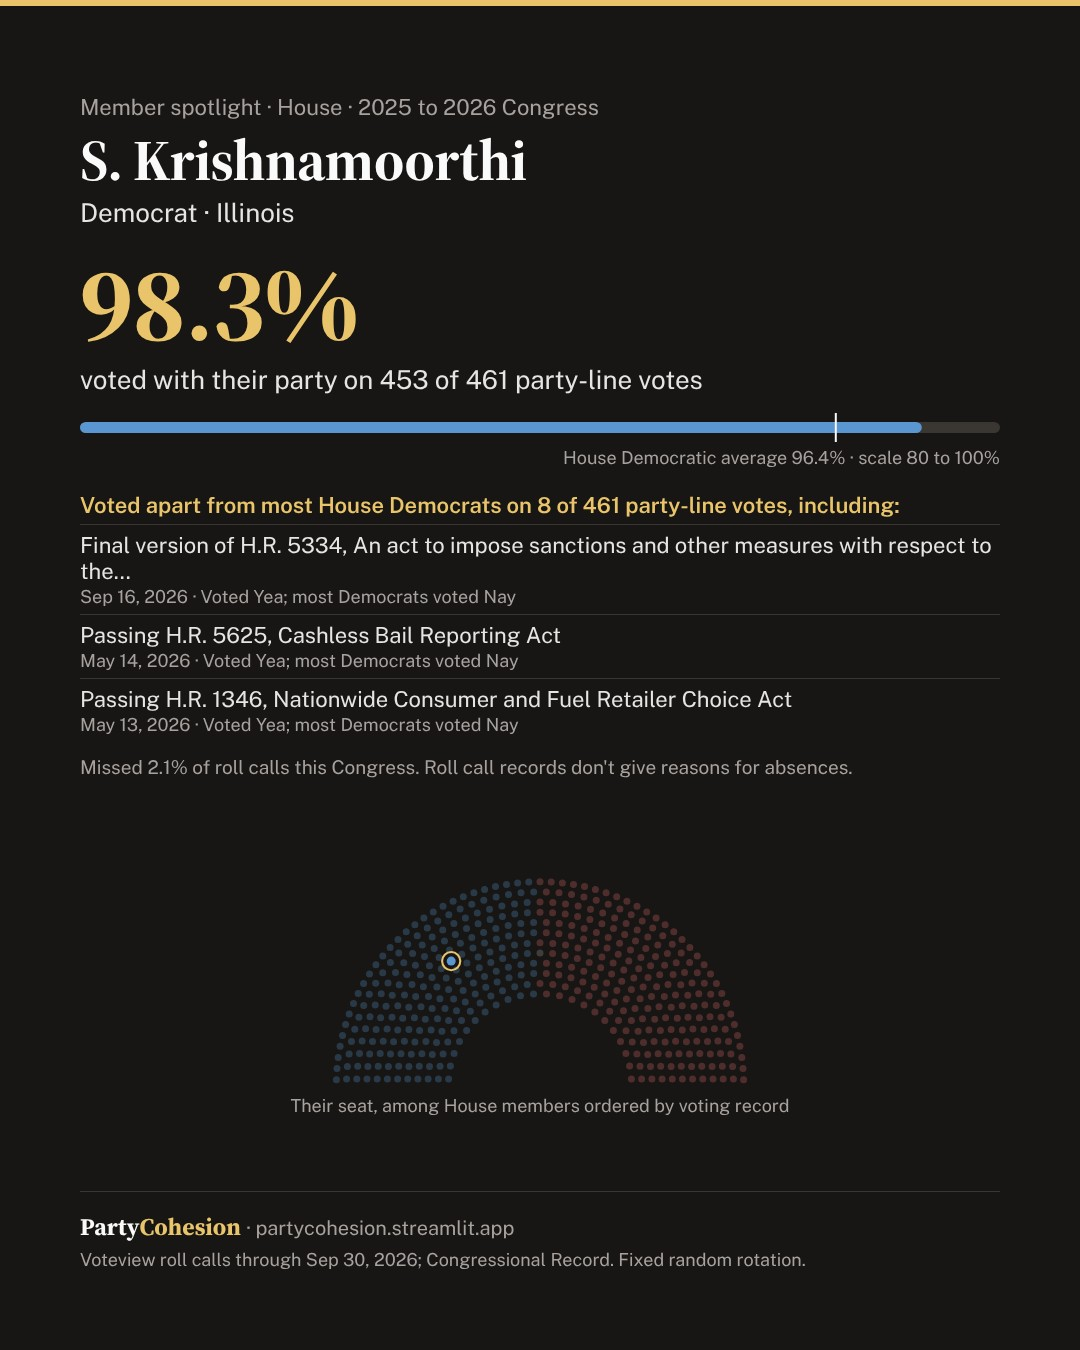
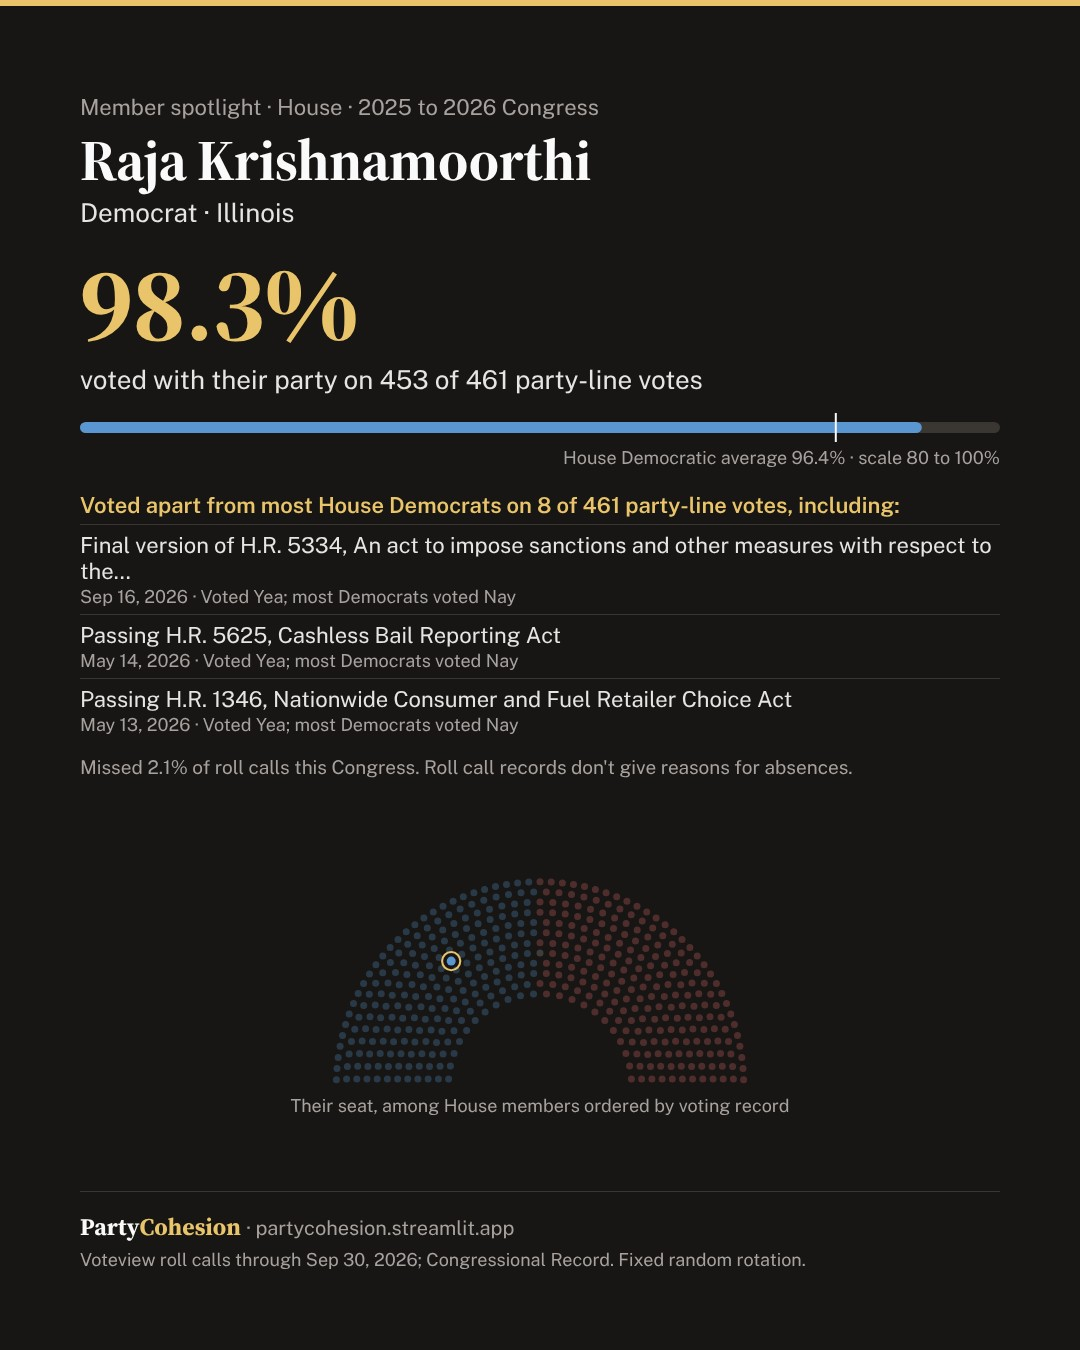
Spotlights use the name a member goes by when Voteview has only an initial
Claude-Session: https://claude.ai/code/session_012iwEuT7JbTG1uJX85Q1SB4

Changed region(s): [[0.0611, 0.0933, 0.55, 0.1556]]

diff --git a/scripts/member_spotlights.py b/scripts/member_spotlights.py
@@ -52,6 +52,9 @@ def load() -> dict:
     apart = changes[changes["apart"]].groupby("icpsr").size().rename("changed_apart")
     cur = cur.merge(missed, on=["chamber", "icpsr"], how="left").merge(apart, on="icpsr", how="left")
     cur["changed_apart"] = cur["changed_apart"].fillna(0).astype(int)
+    # The name members go by ("Raja Krishnamoorthi"), from Congress.gov, where Voteview has "Krishnamoorthi, S. Raja".
+    details = pd.read_csv(DATA / "member_details.csv", usecols=["bioguide_id", "full_name"])
+    cur = cur.merge(details.drop_duplicates("bioguide_id"), on="bioguide_id", how="left")
     summary = pd.read_csv(DATA / "unity_summary.csv")
     votes = pd.read_csv(DATA / "all_votes.csv")
     votes = all_votes = votes[votes["congress"] == latest]
@@ -201,6 +204,16 @@ def purpose(r: pd.Series, n: int = 180) -> str | None:
     return f"{text} (amendment by Rep. {m.group(1)})" if m else text
 
 
+def spoken_name(row: pd.Series) -> str:
+    """'Jason Crow'. When Voteview's first name is only an initial ("S. Krishnamoorthi"), the Congress.gov name with
+    middle initials dropped ("Raja Krishnamoorthi")."""
+    name = display_name(row["name"])
+    full = row.get("full_name")
+    if re.match(r"^[A-Z]\.\s", name) and isinstance(full, str):
+        return re.sub(r"\s+", " ", re.sub(r"\b[A-Z]\.\s", "", full).replace(", Jr.", " Jr.")).strip()
+    return name
+
+
 def stats(d: dict, bioguide: str) -> dict:
     m = d["members"]
     row = m[m["bioguide_id"] == bioguide].iloc[0]
@@ -208,7 +221,8 @@ def stats(d: dict, bioguide: str) -> dict:
     peers = same[same["unity_votes_cast"] >= MIN_VOTES]
     below = (peers["party_unity_pct"] < row["party_unity_pct"]).mean() * 100
     return {
-        "row": row, "name": display_name(row["name"]), "party": row["caucus"], "chamber": row["chamber"],
+        "row": row,
+        "name": spoken_name(row), "party": row["caucus"], "chamber": row["chamber"],
         "state": STATES.get(row["state_abbrev"], row["state_abbrev"]), "abbrev": row["state_abbrev"],
         "pct": float(row["party_unity_pct"]), "with": int(row["votes_with_party"]), "cast": int(row["unity_votes_cast"]),
         # same average as the Overview page and the Senate card

diff --git a/tests/test_member_spotlights.py b/tests/test_member_spotlights.py
@@ -88,3 +88,9 @@ def test_title_follows_the_bill_when_the_senate_swaps_its_text():
     final vote was on that version. The title shown for those votes is the sanctions one."""
     assert "Russian Federation" in ms.title_for(D, "HR5334", "2026-09-16")
     assert ms.title_for(D, "S1318", "2026-06-05") == "Fallen Servicemembers Religious Heritage Restoration Act"
+
+
+def test_names_are_the_ones_members_go_by():
+    import pandas as pd
+    assert ms.spoken_name(pd.Series({"name": "Krishnamoorthi, S. Raja", "full_name": "Raja Krishnamoorthi"})) == "Raja Krishnamoorthi"
+    assert ms.spoken_name(pd.Series({"name": "Crow, Jason", "full_name": "Jason Crow"})) == "Jason Crow"
